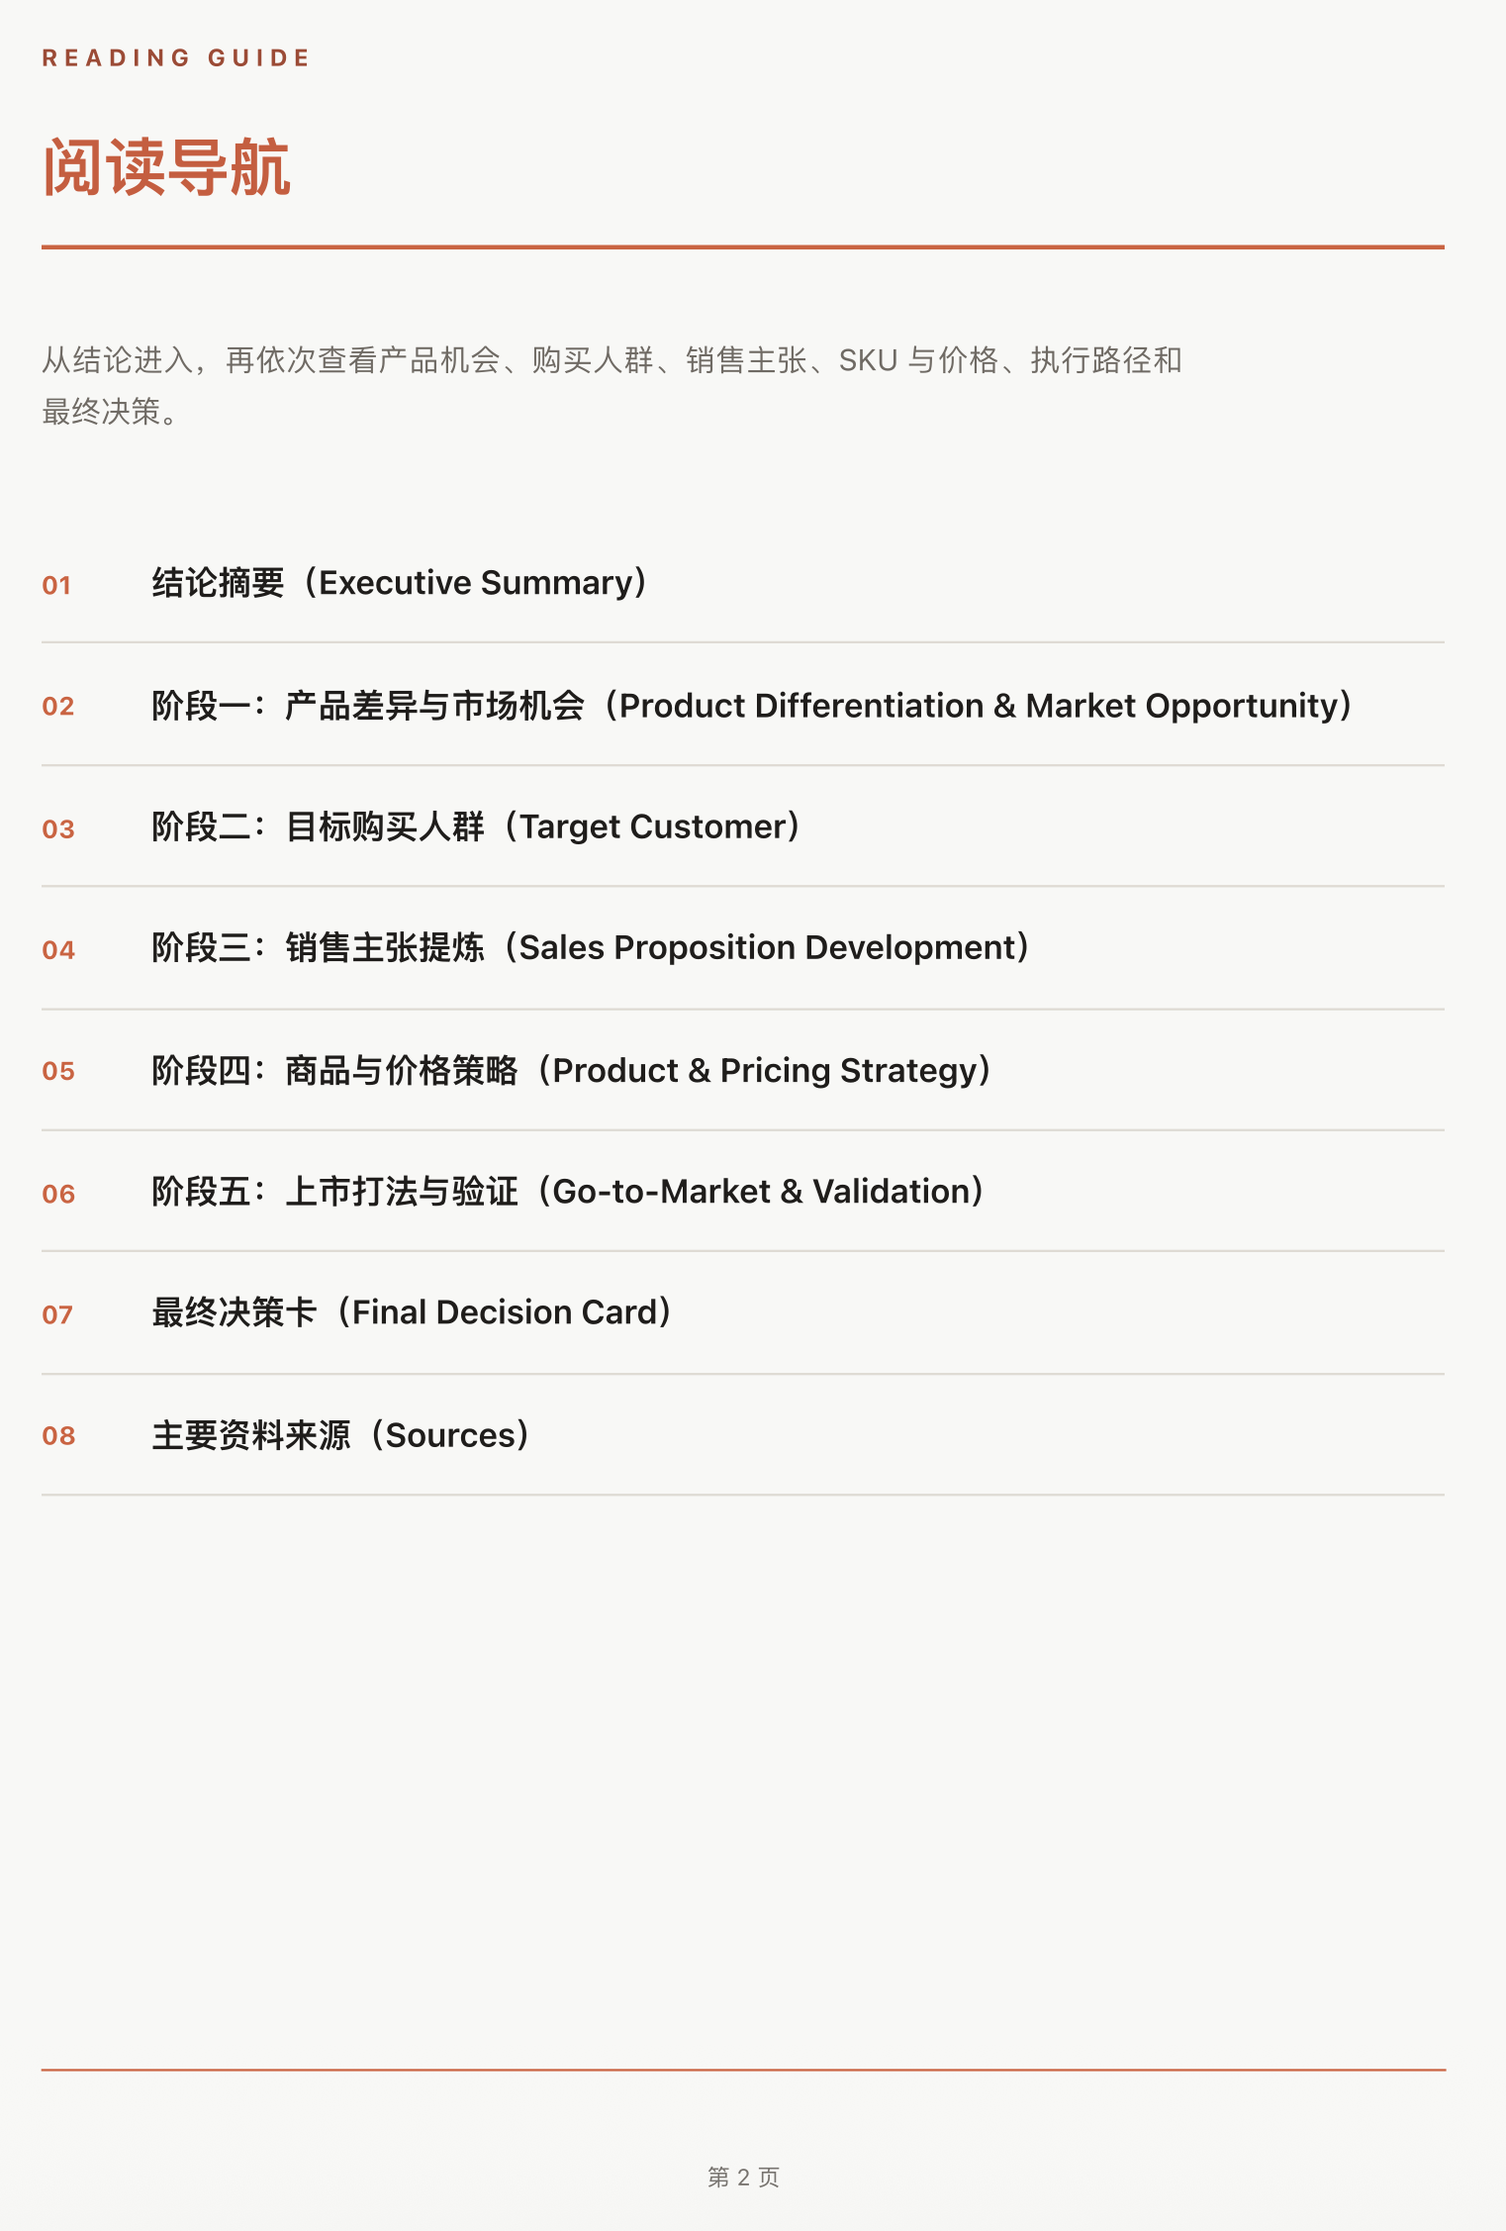
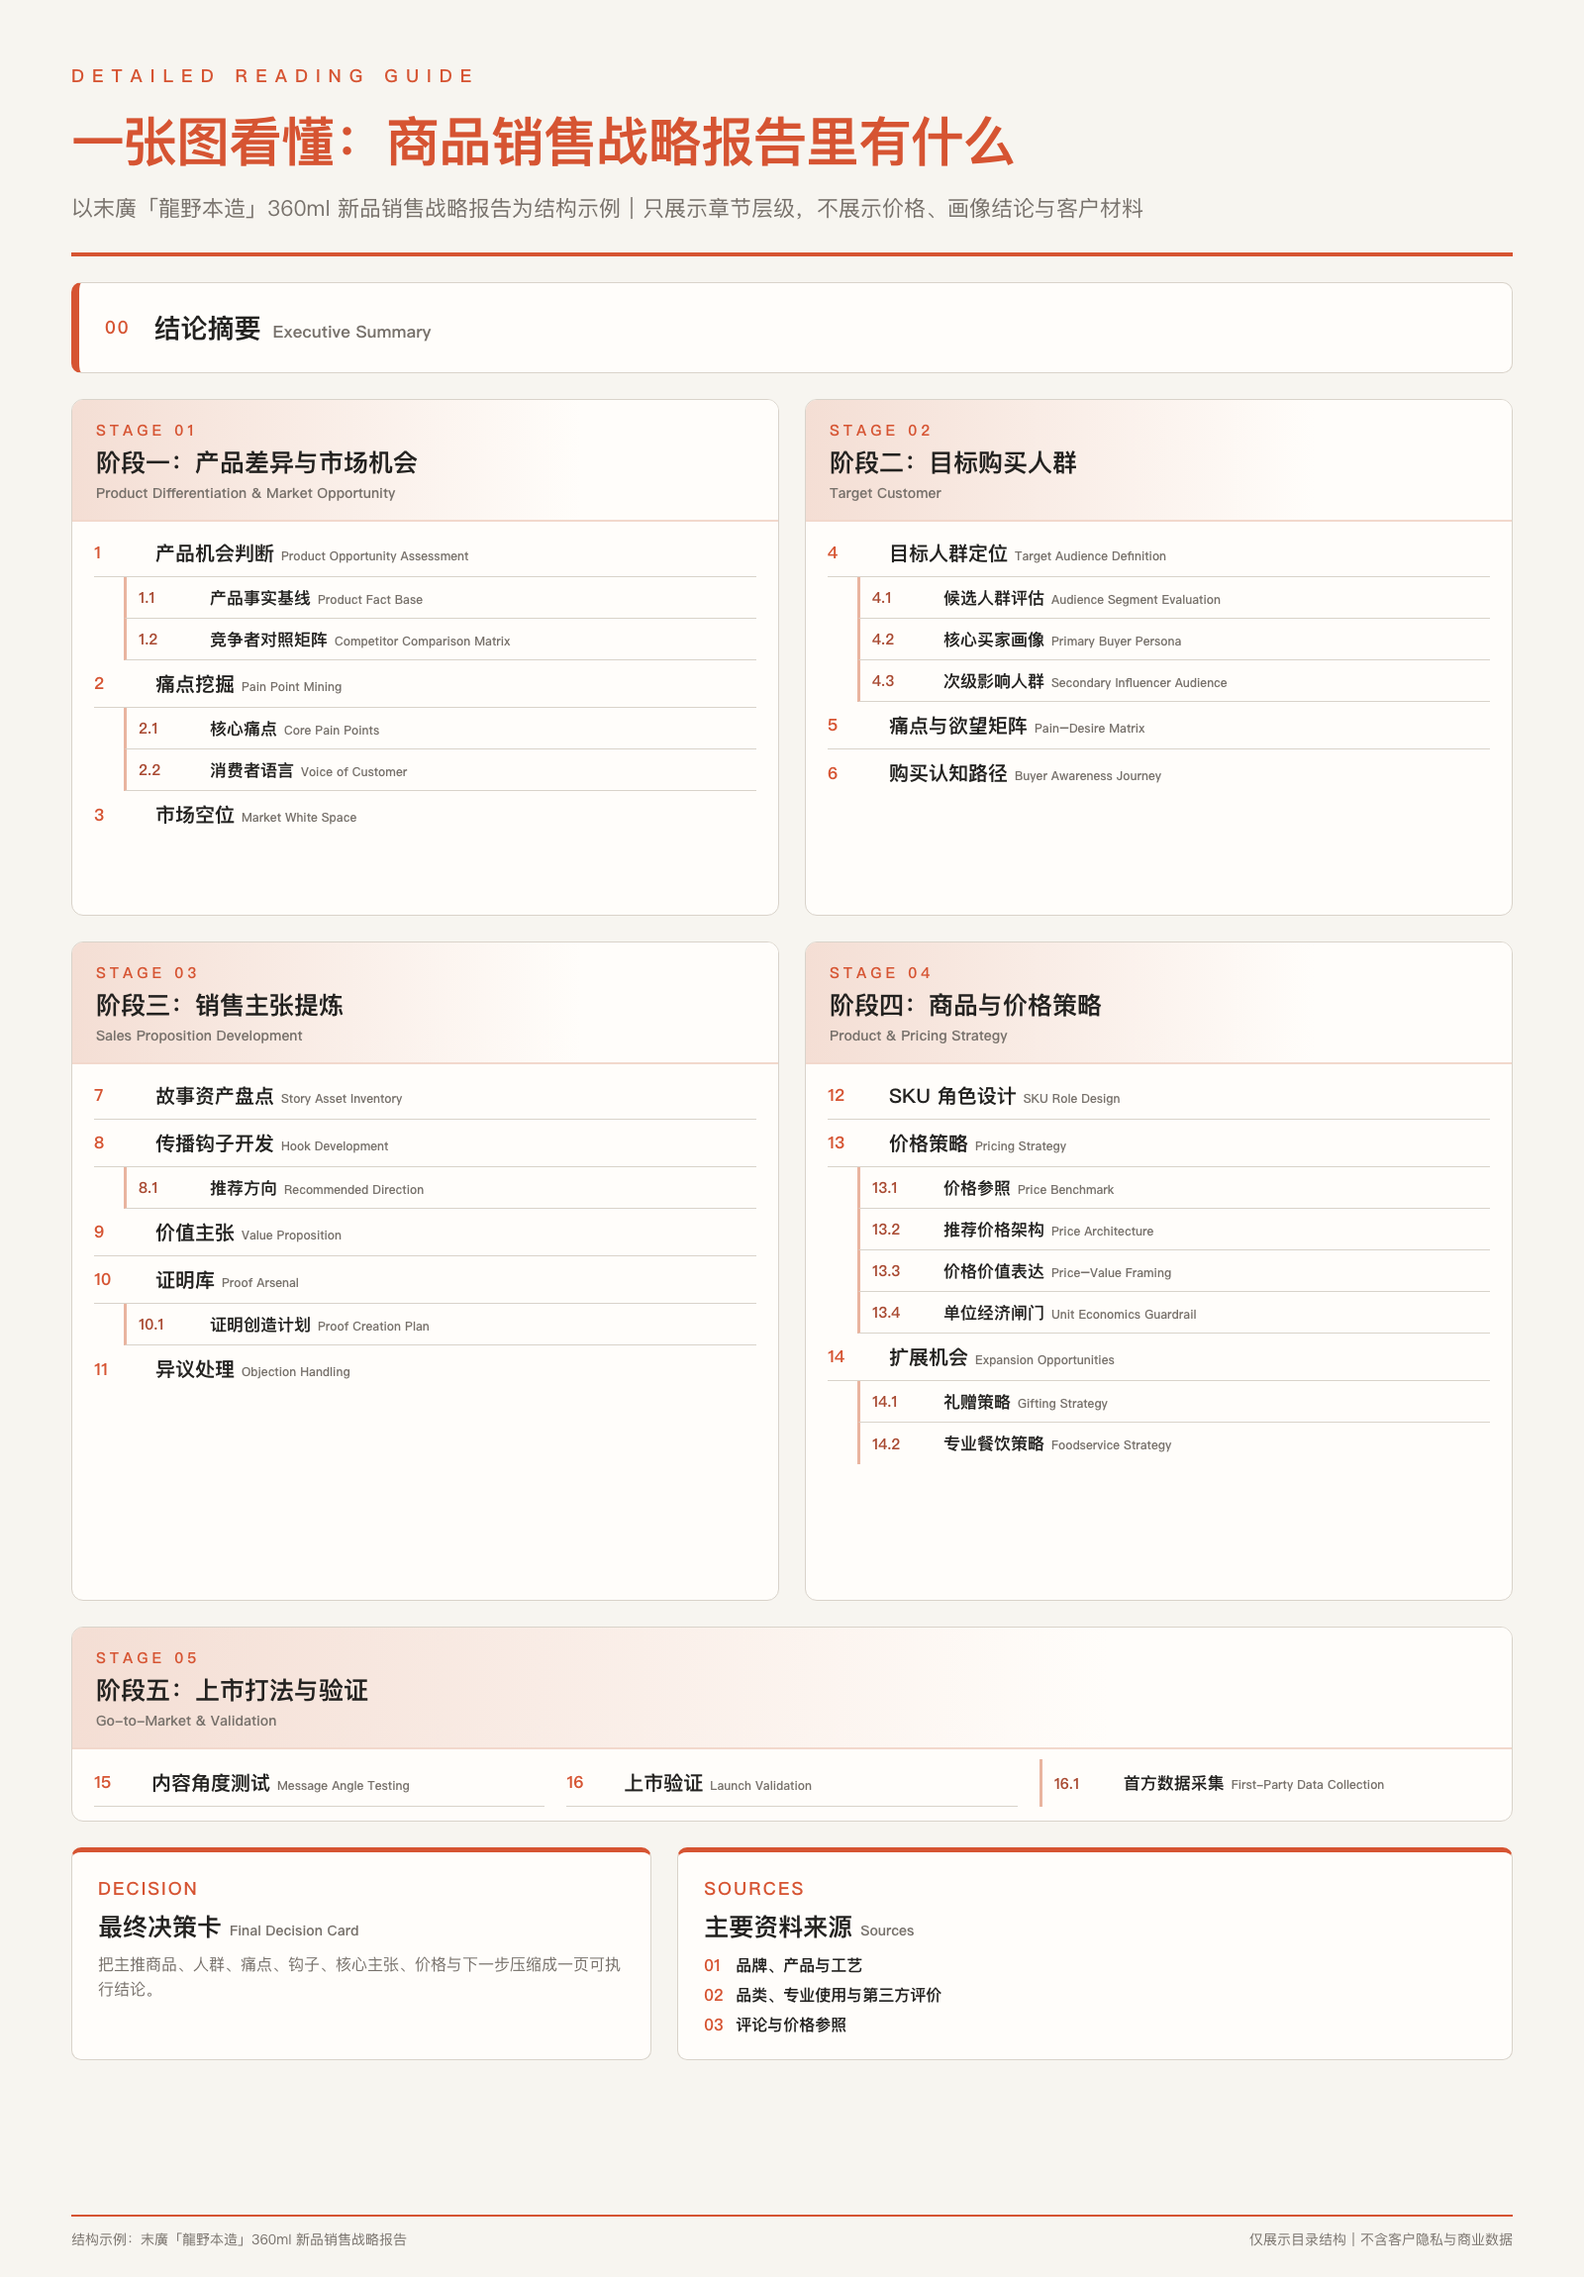
Add detailed report outline preview (#2)

diff --git a/README.en.md b/README.en.md
@@ -25,9 +25,9 @@ A complete run organizes research material, internal synthesis, sales strategy, 
 
 The product sales strategy is delivered both as a Markdown master and a shareable PDF. The report preview below uses a fully fictional product and simulated data to demonstrate the actual public renderer without presenting any market claim as real.
 
-The report starts with the decision, then walks through product differentiation and market opportunity, target customer, sales proposition, SKU and pricing strategy, go-to-market validation, the final decision card, and primary sources:
+The report starts with the decision, then walks through product differentiation and market opportunity, target customer, sales proposition, SKU and pricing strategy, go-to-market validation, and the final decision card. Using the soy-sauce case only as a structural example, the guide below lists every major section and subsection without exposing pricing, buyer conclusions, or client material:
 
-![Demo strategy-report reading guide: executive summary, product differentiation, target customer, sales proposition, SKU and pricing, go-to-market validation, final decision, and sources](assets/demo-report-reading-guide.png)
+![Detailed product-sales-strategy reading guide listing all five stages, major sections, subsections, final decision card, and source groups](assets/demo-report-reading-guide.png)
 
 | Strategy report cover | Report body |
 |---|---|

diff --git a/README.md b/README.md
@@ -25,9 +25,9 @@
 
 其中，商品销售战略报告会同时交付 Markdown 母稿和方便分享阅读的 PDF。下面使用完全虚构的商品与模拟数据，演示公开版真实可生成的报告结构和 PDF 排版：
 
-报告会从结论进入，依次说明产品差异与市场机会、目标购买人群、销售主张、SKU 与价格、上市打法、验证方式和最终决策，并在末尾保留主要资料来源：
+报告会从结论进入，依次说明产品差异与市场机会、目标购买人群、销售主张、SKU 与价格、上市打法、验证方式和最终决策。下面以酱油案例为结构示例，把每个阶段的主要章节与 `4.1／4.2` 等子标题完整列出，但不展示价格、画像结论或客户材料：
 
-![模拟战略报告阅读导航：从结论摘要到产品差异、目标购买人群、销售主张、SKU 与价格、上市验证和最终决策](assets/demo-report-reading-guide.png)
+![商品销售战略报告详细阅读导航：完整列出五个阶段、主要章节、子标题、最终决策卡与资料来源](assets/demo-report-reading-guide.png)
 
 | 战略报告封面 | 正文与决策结构 |
 |---|---|
